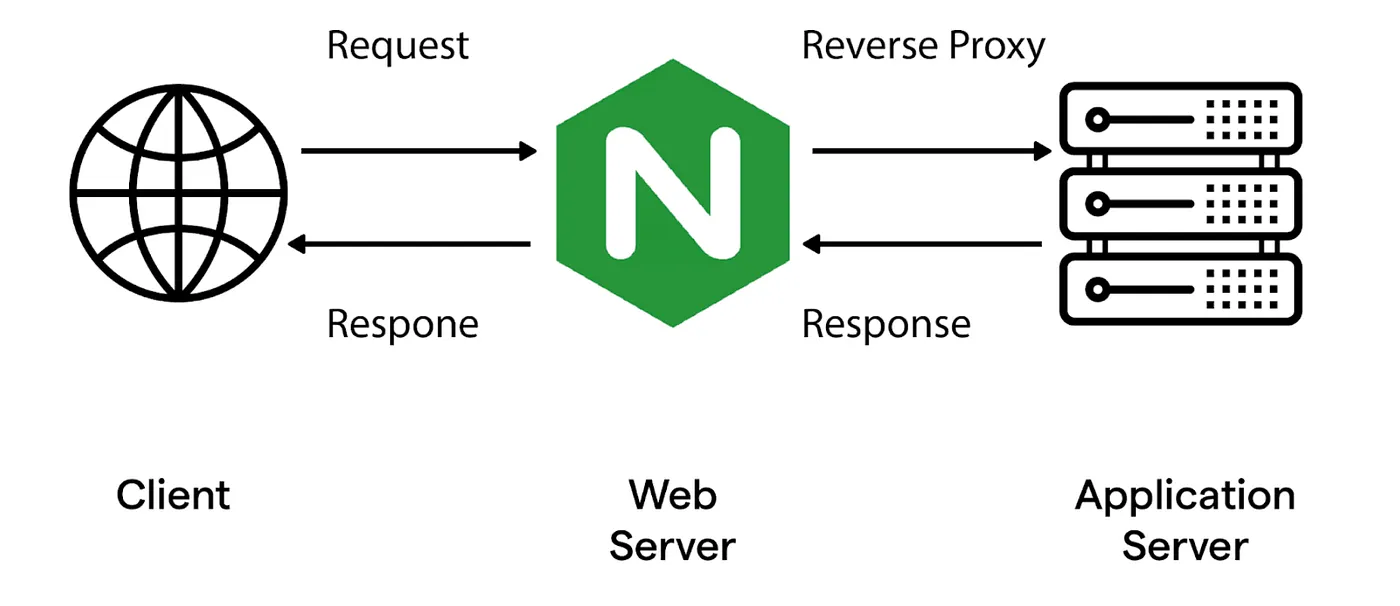
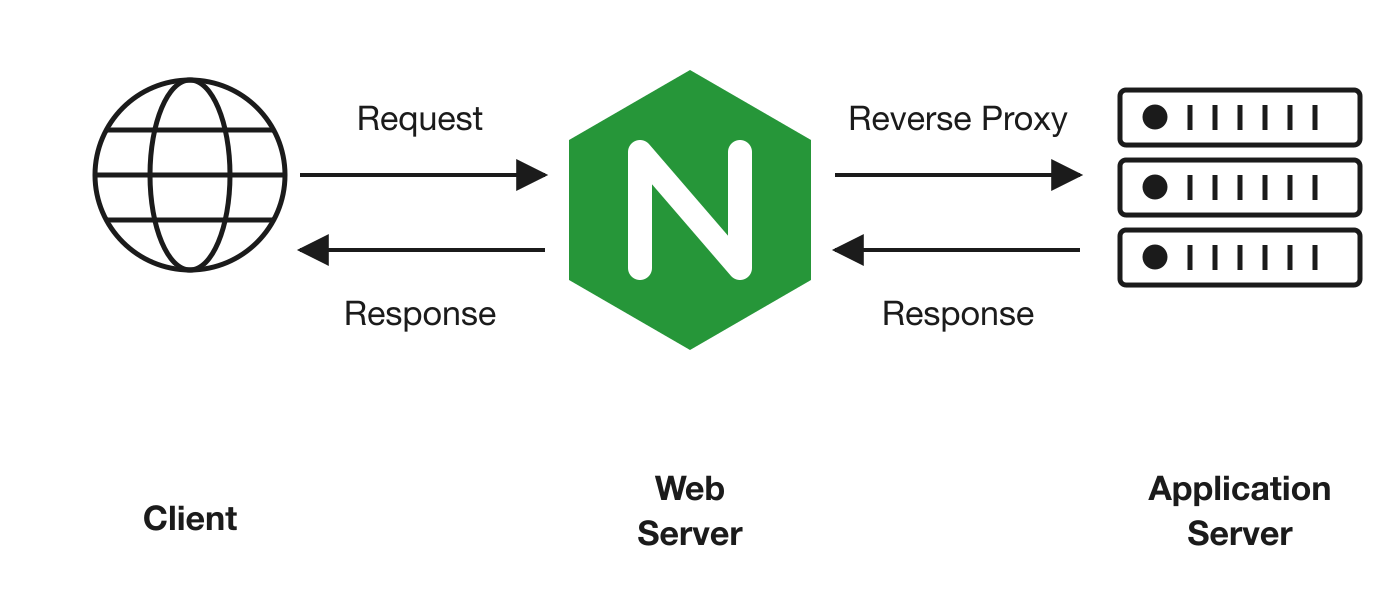
Improved the slides

diff --git a/00._Course_Material/01._Docker/01._Slides/03._Docker_Get_Started.md b/00._Course_Material/01._Docker/01._Slides/03._Docker_Get_Started.md
@@ -66,7 +66,7 @@ drwxr-xr-x    1 root     root             0 Apr 15 04:51 home
 
 # Echo in the Alpine container
 
-Here is the solution for the previous assignment along with two new flags `-i` and `-t`:
+Here is the solution for the previous assignment:
 
 ```bash
 docker run alpine echo "Hello, World"
@@ -88,9 +88,10 @@ Now try the following command:
 docker run -it alpine
 ```
 
+*In your own words, what happened when you add the `-it` flags?*
+
 To exit the container, you can simply type `exit` or press `Ctrl + D`. This will both stop the container and return you to your host terminal.
 
-**Task**: Try running the command without the flags and describe in your own words what happens if you run it with the `-it` flags.
 
 ---
 
@@ -106,15 +107,15 @@ It creates a terminal session that allows you to interact from the inside of the
 
 # Another understanding of the `-it` flags
 
-If you run:
+`/bin/sh` allows us to define which shell to use but if you run:
 
 ```bash
 docker run alpine /bin/sh
 ```
 
-Nothing will happen. This is because the container will immediately exit after running the command `/bin/sh`.
+Nothing happaned. This is because the container will immediately exit after running the command.
 
-This is why the `-it` flag is required (`/bin/sh` is an idiomatic way to defined which shell to use):
+This is why the `-it` flag is required:
 
 ```bash
 docker run -it alpine /bin/sh
@@ -124,11 +125,7 @@ You are now inside the Alpine container shell and now you can run commands insid
 
 The prompt in Alpine is `/ #` which indicates that you are in the root directory of the container.
 
-Try running:
-
-```bash
-/ # ls -l
-```
+Try running `/ # ls -l`
 
 ---
 
@@ -143,6 +140,12 @@ docker ps
 ```
 
 *Why do you not see anything?*
+
+<details> 
+  <summary>Hint</summary>
+   Read the titel of the slide.
+</details>
+
 
 <details> 
   <summary>Answer</summary>

diff --git a/00._Course_Material/01._Docker/01._Slides/04._Docker_Networks.md b/00._Course_Material/01._Docker/01._Slides/04._Docker_Networks.md
@@ -6,13 +6,13 @@
 
 # Networking in Docker
 
-Without networks containers would neither be able to communicate with each other nor be accessible from the host machine.
+Without networks, containers would neither be able to communicate with each other nor be accessible from the host machine.
 
 Docker provides a default network for containers to communicate with each other and the host machine.
 
 Use the `docker network` command to manage networks and connect containers to them.
 
-<img src="./assets/docker_networking_model.png" alt="Docker Networking Model" style="height: 28vh;">
+<img src="./assets/docker_networking_model.png" alt="Docker Networking Model" style="height: 28vh; background-color: white;">
 
 [Source](https://www.toolsqa.com/docker/docker-networking/)
 
@@ -34,7 +34,7 @@ Networks are useful for:
 
 Nginx is a popular web server that can also be used as a reverse proxy (see the image below), load balancer and HTTP cache.
 
-<img src="./assets/nginx.png" alt="Nginx logo" style="height: 30vh;">
+<img src="./assets/nginx.png" alt="Nginx logo" style="height: 30vh; background-color: white;">
 
 We are going to use it as a simple web server that serves an HTML file.
 

diff --git a/00._Course_Material/01._Docker/01._Slides/02._Docker.md b/00._Course_Material/01._Docker/01._Slides/02._Docker.md
@@ -8,7 +8,9 @@
 
 An easy way to create, deploy, and run applications using containers.
 
-Images are defined in a Dockerfile (YAML). Example:
+Images are defined in a `Dockerfile` (YAML). 
+
+Example of a script that compiles and starts a Maven project:
 
 ```Dockerfile
 FROM maven:3.9.9-eclipse-temurin-21 AS build
@@ -48,7 +50,7 @@ Docker is difficult to learn, takes more time to set up but is worth it in the l
 
 **Ease of running**: Start and stop containers with a single command.
 
-**Dependency Management**: Containers package an application and its dependencies together, ensuring that it runs consistently across different environments.
+**Dependency Management**: Containers package an application and its dependencies together.
 
 **Reproducibility**: Solves the "works on my machine" problem by abstracting away from the host OS.
 

diff --git a/00._Course_Material/01._Docker/01._Slides/06._Dockerfile.md b/00._Course_Material/01._Docker/01._Slides/06._Dockerfile.md
@@ -83,11 +83,8 @@ Consider this file from the exercise **Dockerizing_a_Maven_project**.
 FROM maven:3.9.9-eclipse-temurin-21
 
 WORKDIR /app
-
 COPY pom.xml .
-
 COPY src ./src
-
 RUN mvn clean package -DskipTests
 
 ENTRYPOINT ["java", "-jar", "target/demo-1.0-SNAPSHOT.jar"]
